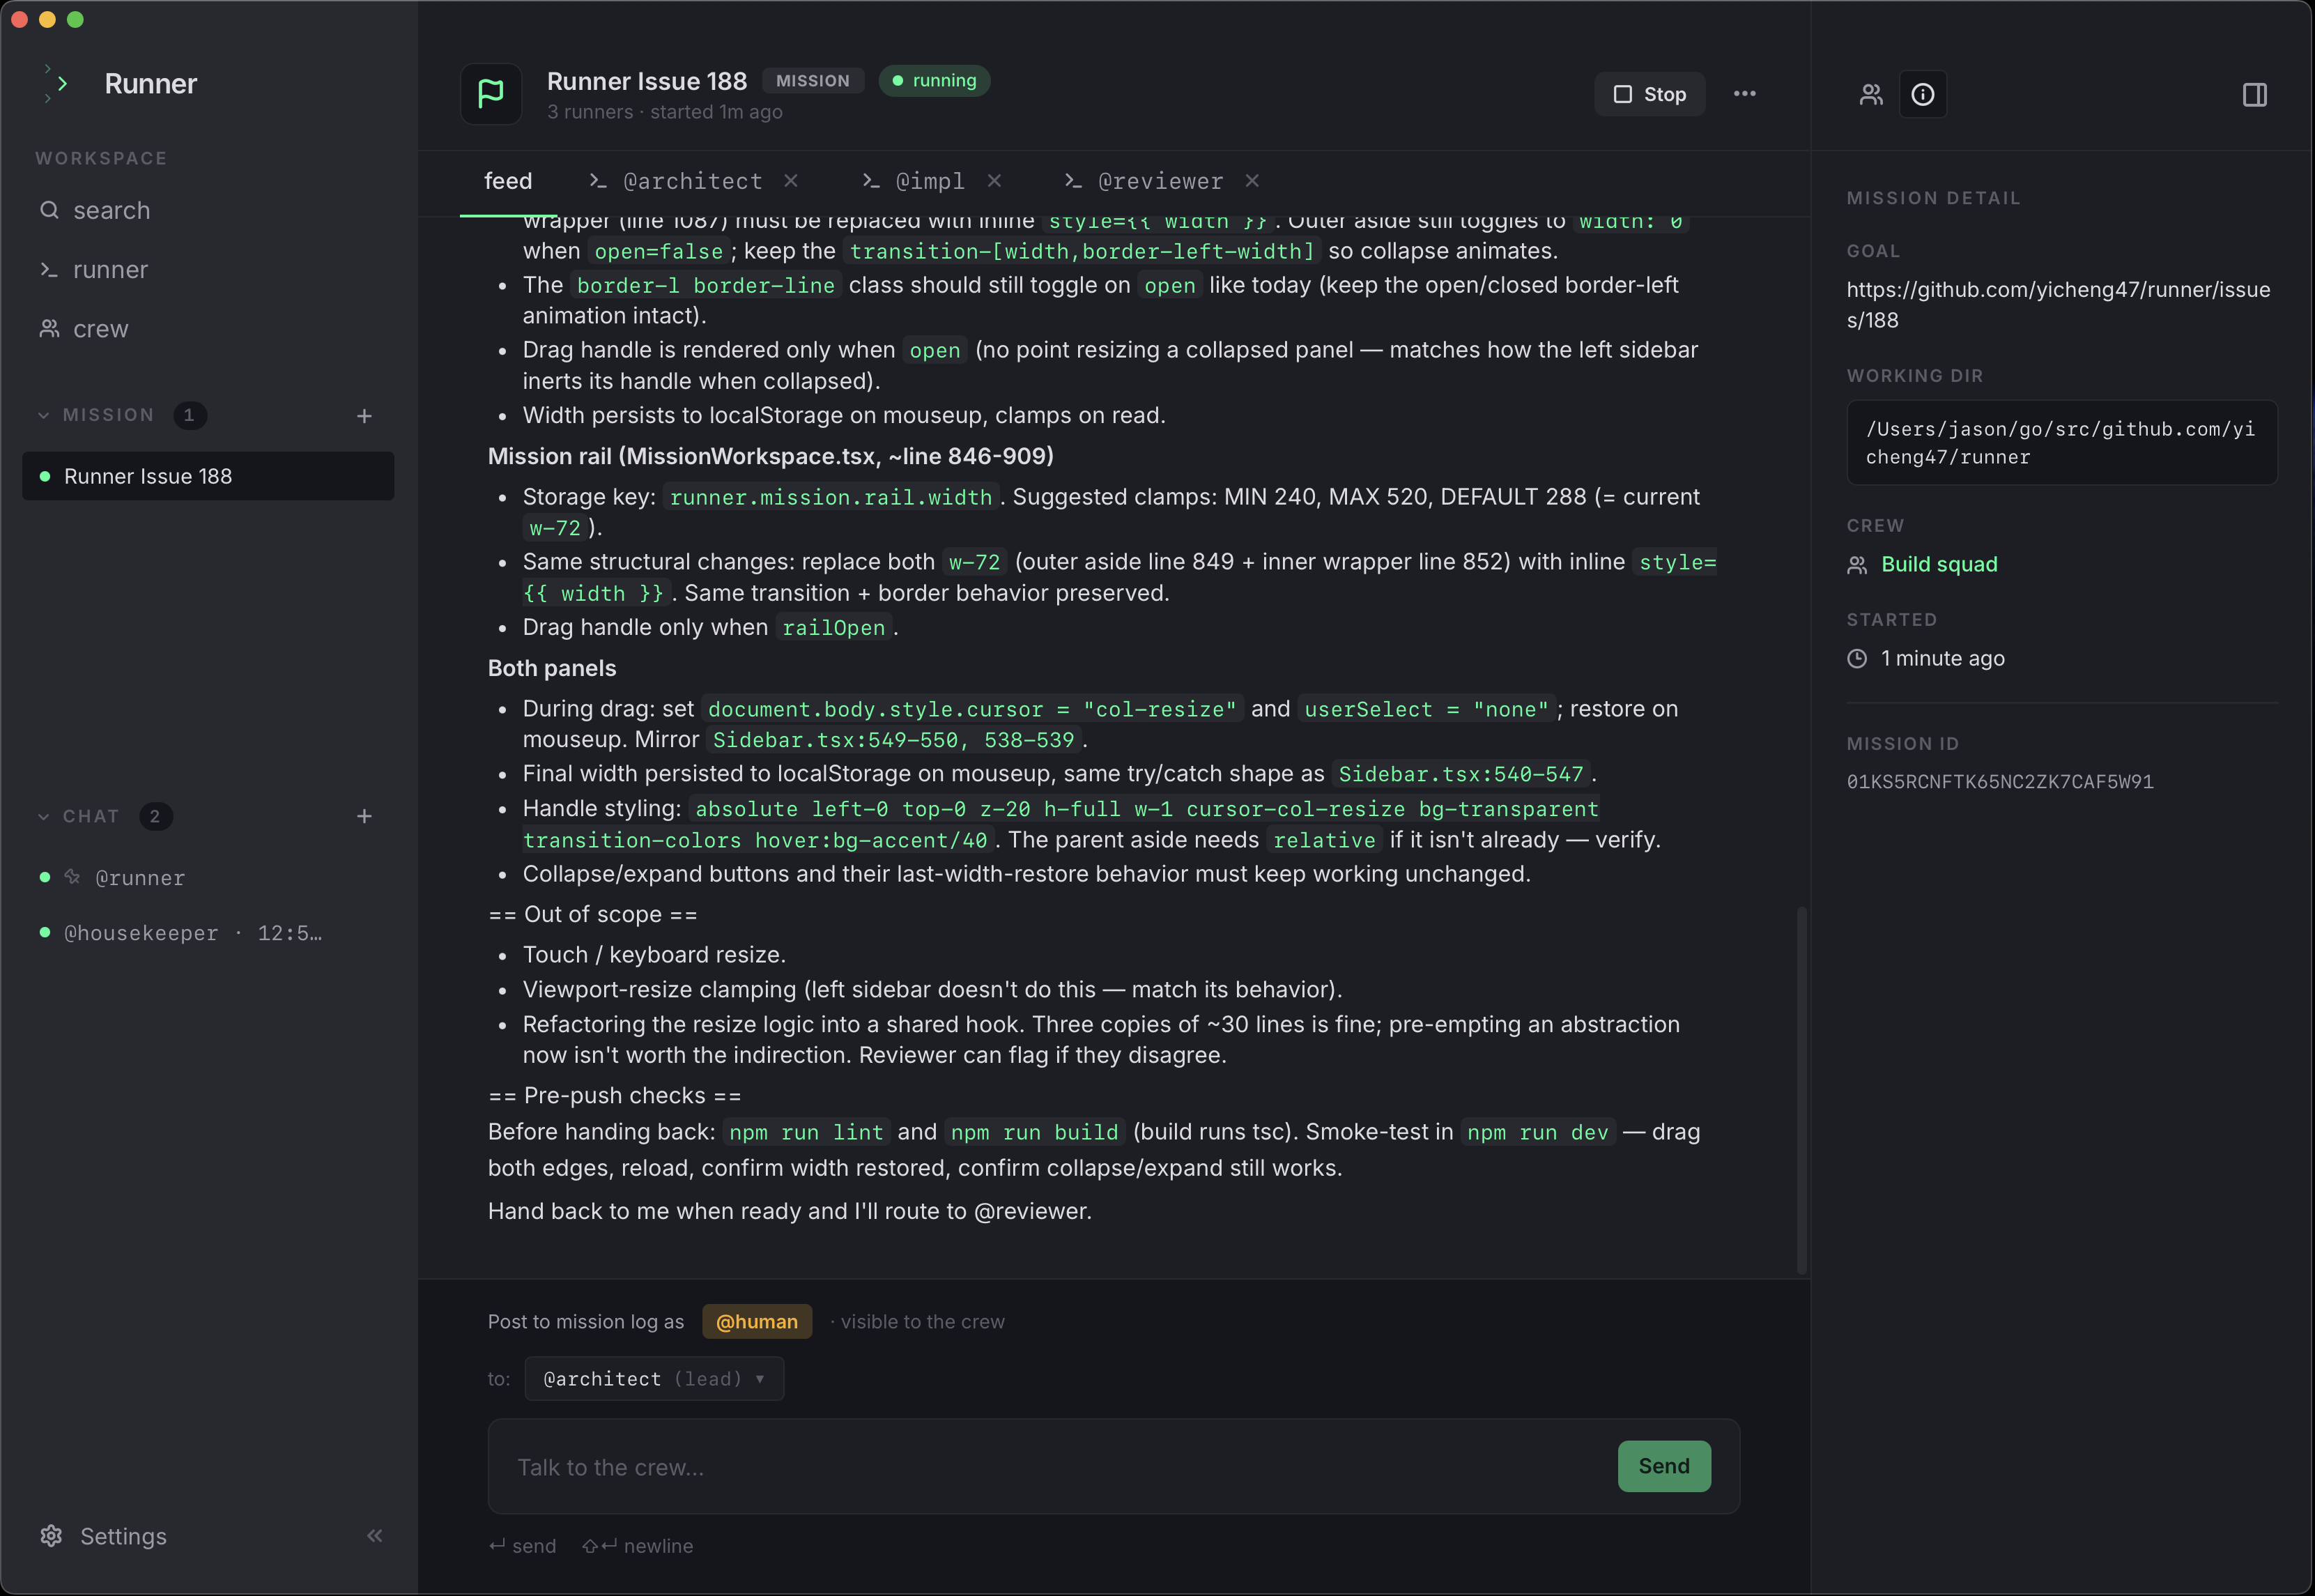
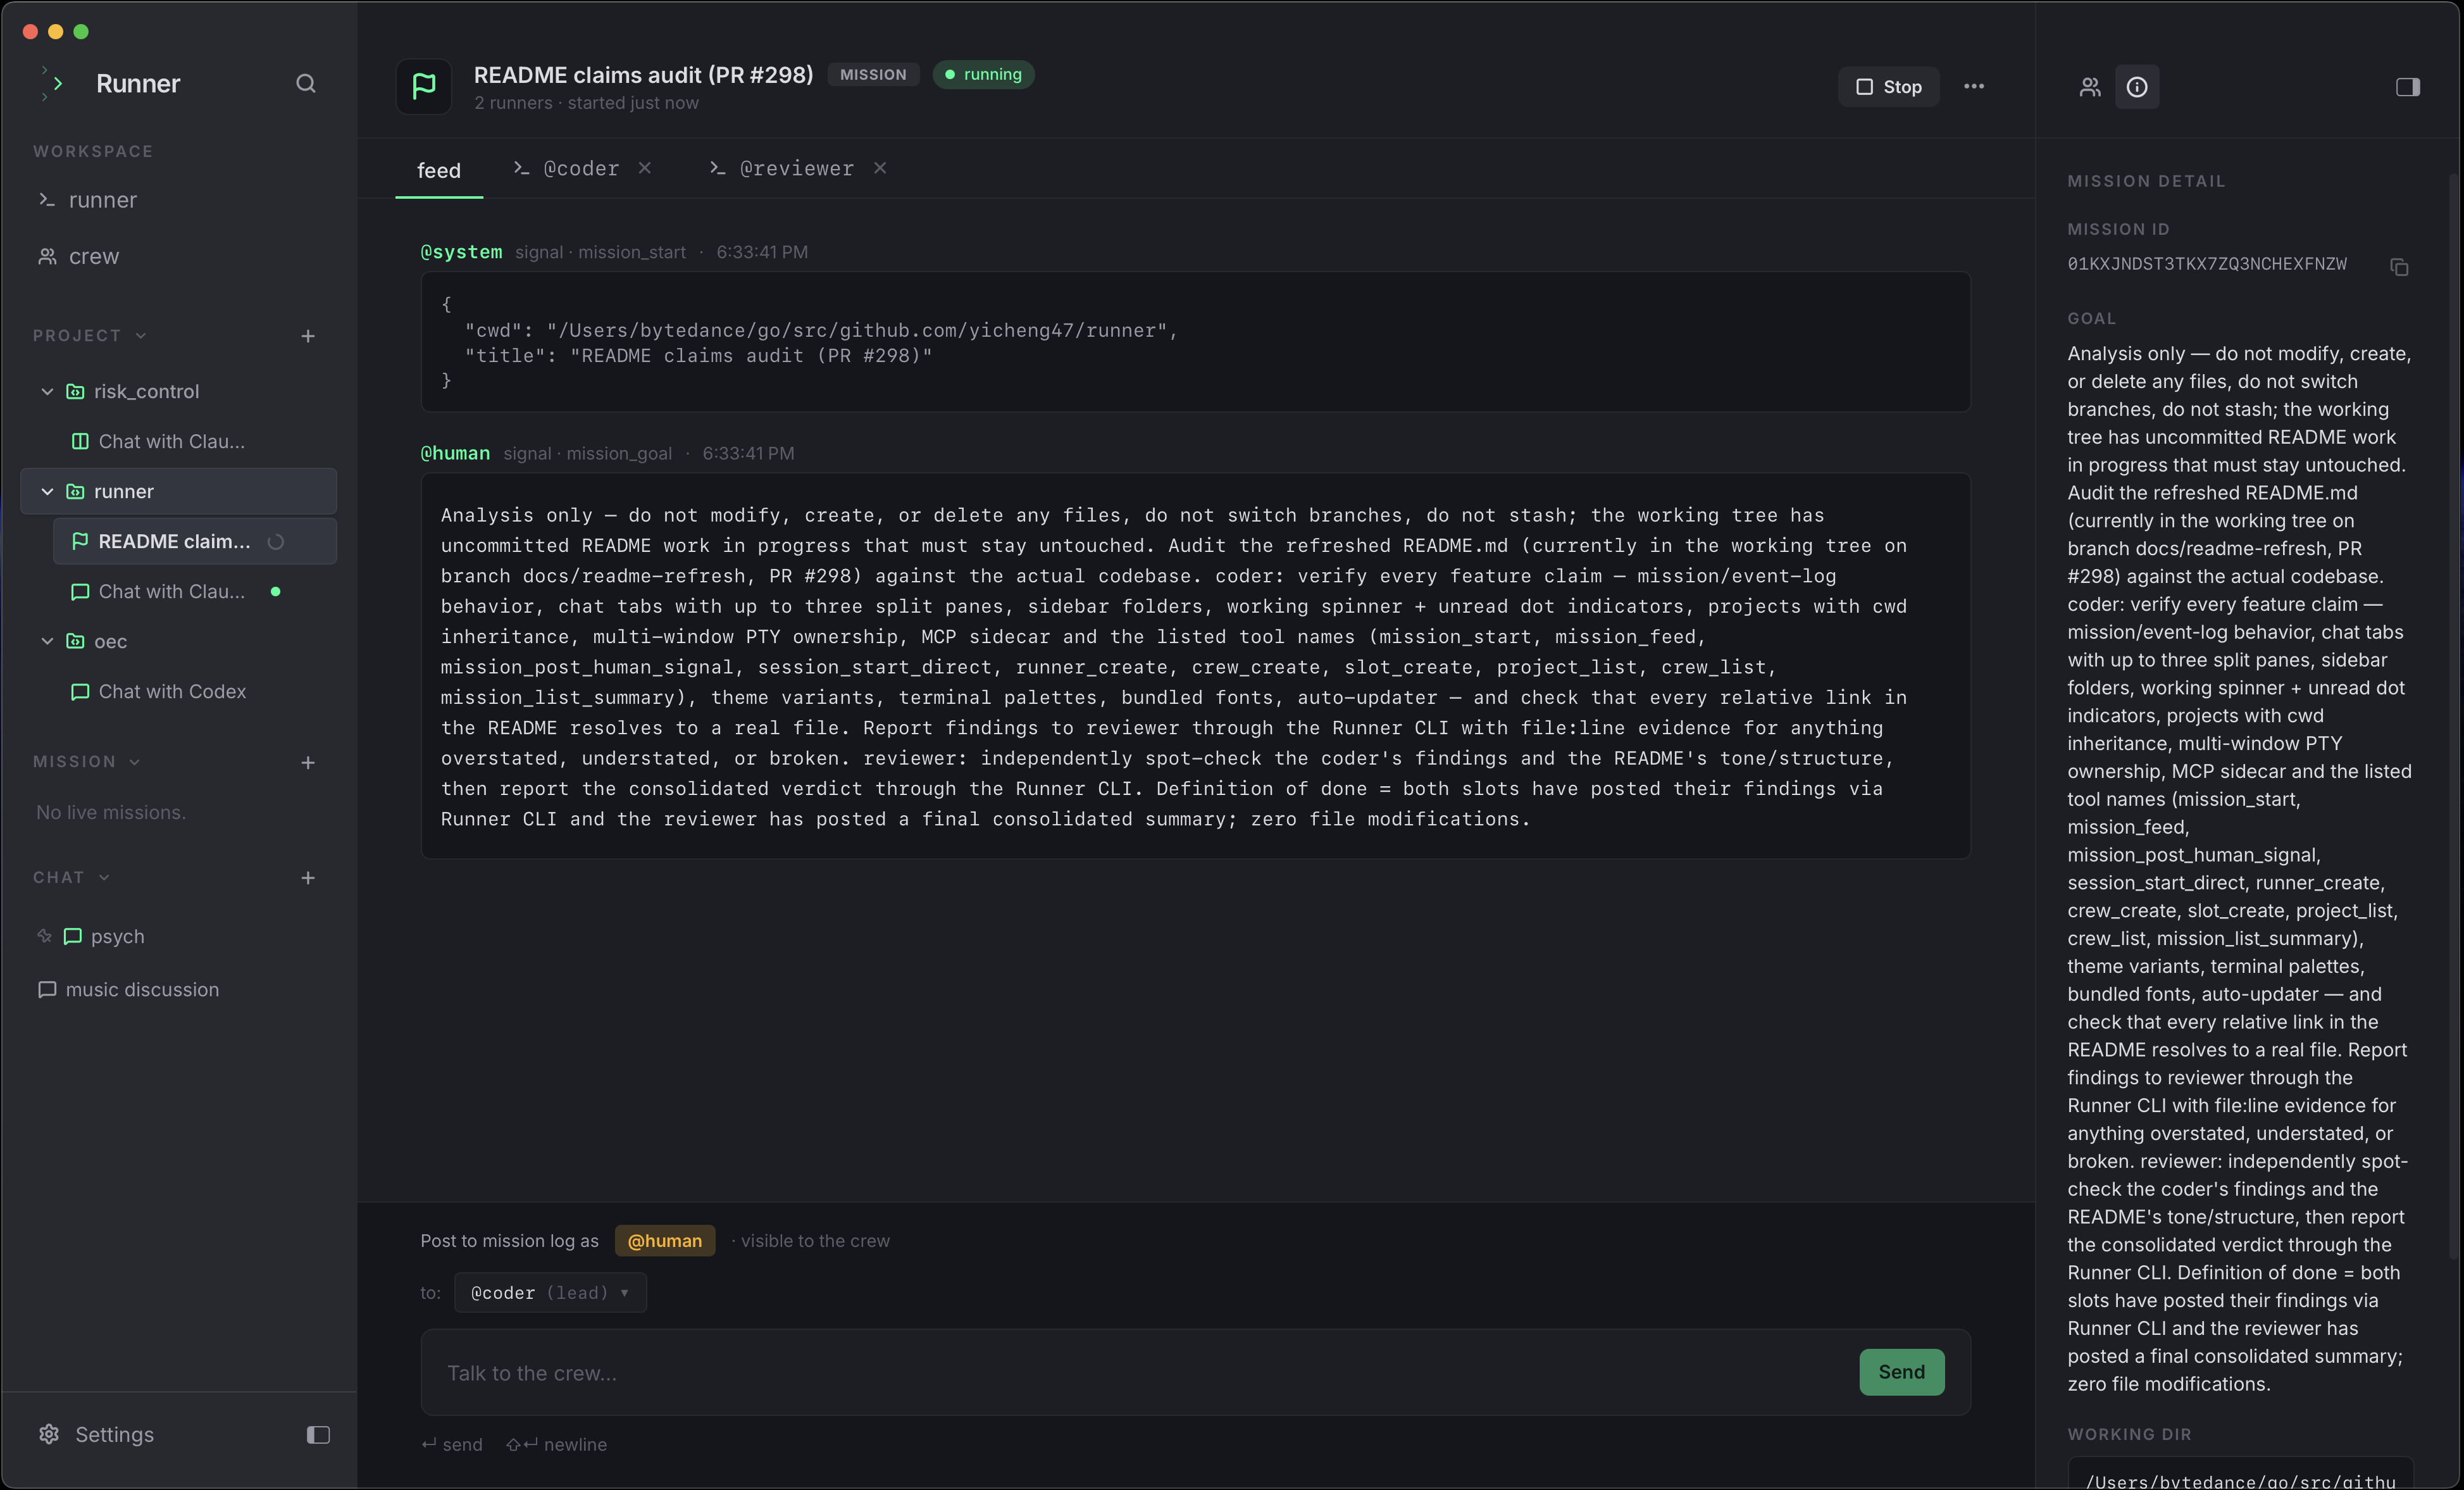
docs(readme): refresh for current product surface (#298)
* docs(readme): refresh for current product surface

Reposition as a local ADE, replace the screenshot gallery and feature
list with an Orca-style feature wall (text + image per row), add a
dedicated MCP section with the real tool surface, drop the outdated
tic-tac-toe demo video, and correct the theme/runtime claims to match
shipped code.

* docs(readme): add feature-wall screenshots and crews row

Fresh captures for all six wall rows (crews editor, mission feed,
chat split view, per-slot terminal, multi-window, MCP settings),
images moved to the left column, a dedicated Crews row split out of
Missions, MCP folded into the wall, and a more direct About voice.

Pull request: docs(readme): refresh for current product surface
## What

Full README refresh — the previous version predated most of the current product surface and its media came from the earliest demo build.

- **Positioning**: tagline and About now frame Runner as a local **agentic development environment (ADE)**, with an IDE-vs-ADE contrast paragraph.
- **Feature wall**: replaces the standalone Screenshots section and the "What it does" bullet list — one two-column row per feature (Missions, Chats with tabs/splits/folders, real terminal, Themes), text left, image right. Smaller features (Projects, multi-window, bundled `runner` CLI, auto-updates) live in a compact "Also in the box" list.
- **MCP section**: "Drive it from your agents" documents the `runner-mcp` sidecar, Settings → MCP config snippets, and the real tool surface (`mission_start`, `mission_feed`, `mission_post_human_signal`, `session_start_direct`, …).
- **Accuracy pass**: theme claims match `settings.ts` (two variants per side + independent terminal palettes), runtimes limited to what's registered (claude-code, codex, custom shells); unshipped specs (skills, resume-cwd, OpenCode) are not claimed. Status bumped pre-alpha → alpha.
- **Removed**: the outdated tic-tac-toe demo video.

## Media TODOs (follow-up)

Placeholders are commented in place, nothing renders broken:
- `assets/chat_split.png` — new hero shot (3-pane tab + organized sidebar)
- `assets/themes.png` — 2×2 theme grid
- Re-capture `mission_feed.png` / `mission_terminal.png` at current UI
[…]

diff --git a/README.md b/README.md
@@ -8,11 +8,15 @@
 <p align="center">
   Spawn a runner. Create your crew. Ship the feature.
   <br />
-  A local desktop app for orchestrating crews of CLI coding agents — Claude Code, Codex, and friends.
+  A local agentic development environment (ADE) — orchestrate crews of CLI coding agents: Claude Code, Codex, and friends.
 </p>
 
 <p align="center">
   <a href="#about">About</a>
+  ·
+  <a href="#features">Features</a>
+  ·
+  <a href="#drive-it-from-your-agents-mcp">MCP</a>
   ·
   <a href="#example-crew">Crew example</a>
   ·
@@ -25,54 +29,116 @@
 
 ---
 
-> Status: pre-alpha, actively shipping. macOS today; Linux on the way.
+> Status: alpha, actively shipping. macOS today; Linux on the way.
 
 ---
 
 ## About
 
-Runner is what happens when you stop juggling four terminal windows for four AI agents and put them in one workspace instead.
+Runner is a local desktop workspace for operating multiple CLI coding agents at once. Instead of scattering Claude Code and Codex sessions across terminal windows, you run them as an organized fleet — configured runners, composed crews, coordinated missions — from a single app.
 
-You assemble a **Crew** — a small party of CLI agents (Claude Code, Codex, custom shells). You give each runner a role, a system prompt, and a working directory. You hit **Start mission** and Runner forks a real PTY per slot into a tabbed workspace, wires them together through an append-only event bus, and lets you watch the work unfold from one window. When an agent needs you, it fires `ask_human` and the question surfaces in the feed. When you want to talk to a single agent without the orchestration scaffolding, **Direct chat** is a one-click 1:1 PTY.
+Runner is an **agentic development environment (ADE)**. Where an IDE organizes buffers and a debugger around the code you write, an ADE organizes terminals, crews, and event feeds around the agents writing it. The operator's job shifts accordingly: assign roles, start missions, monitor progress, review diffs, and make the calls agents escalate to you.
 
-The terminal is a real xterm.js + WebGL canvas — claude-code, codex, and any modern TUI render with their actual ANSI palette, mouse tracking, and live redraws. Sessions are resumable across app restarts (the event log is the source of truth). Themes are first-class: Auto / Light / Dark across four bundled palettes (Runner, Codex Light, Catppuccin Mocha, Catppuccin Latte) with a bundled font picker (Inter / Geist / Roboto / System UI) that works offline.
+The coordination model is explicit. A **runner** is a reusable agent configuration — runtime, role, system prompt, working directory. A **crew** composes runners with exactly one lead. Starting a **mission** spawns one real PTY per slot into a tabbed workspace where the crew coordinates over an append-only event log: handoffs and status flow between agents, and when a decision needs a human, `ask_human` surfaces it in the feed. Everything runs and persists locally — sessions are real processes on your machine, and the log is on-disk and replayable.
+
+Runner also runs as an **MCP server**: any MCP client — including the agents themselves — can create crews, start missions, and steer them programmatically. See [Drive it from your agents](#drive-it-from-your-agents-mcp).
 
 ## Download
 
 Latest macOS build (Apple Silicon + Intel `.dmg`) on the [releases page](https://github.com/yicheng47/runner/releases/latest). Linux builds coming with the v1 cut.
 
-## Demo
+<!-- TODO(demo): add a "## Demo" section here once the new hero video is recorded — a Peer
+     Coding Crew mission on a real repo (mission start from a project → feed + per-slot
+     terminals → coder/reviewer handoffs via the Runner CLI → ask_human surfacing → done). -->
 
-A three-runner crew shipping a tic-tac-toe game end-to-end — `@architect` decomposes the goal, `@impl` writes the code, `@reviewer` reads the diff.
-
-https://github.com/user-attachments/assets/f02e949b-117c-4d44-980a-58a9c76c49fe
-
-## Screenshots
+## Features
 
 <table>
-  <tr>
-    <td width="50%"><img src="assets/mission_feed.png" alt="Mission workspace — event feed tab" width="100%" /></td>
-    <td width="50%"><img src="assets/mission_terminal.png" alt="Mission workspace — per-slot PTY terminal tab" width="100%" /></td>
-  </tr>
-  <tr>
-    <td align="center"><em>Mission feed — every signal between the crew + human</em></td>
-    <td align="center"><em>Mission terminal — one PTY per slot, live</em></td>
-  </tr>
+<tr>
+<td width="50%">
+  <img src="assets/crew.png" alt="Crew editor — slots, prompts, team conventions, one lead" width="100%" />
+</td>
+<td width="50%" valign="middle">
+
+### Crews — roles, prompts, one lead
+
+A **runner** is a reusable agent configuration: runtime, role, system prompt, working directory. A **crew** composes runners into named slots with exactly one lead, plus team conventions and a definition of done that every mission inherits.
+
+</td>
+</tr>
+<tr>
+<td width="50%">
+  <img src="assets/mission_feed.png" alt="Mission workspace — the event feed between crew and human" width="100%" />
+</td>
+<td width="50%" valign="middle">
+
+### Missions — a crew working one goal
+
+Starting a mission spawns one live PTY per slot into a tabbed workspace where the crew coordinates over an append-only event log — every signal is persisted and replayable, so missions survive a quit or crash, and `ask_human` questions surface in the feed.
+
+[Architecture →](./docs/arch/arch.md)
+
+</td>
+</tr>
+<tr>
+<td width="50%">
+  <img src="assets/chat_split.png" alt="Chat tab with three split panes and organized sidebar" width="100%" />
+</td>
+<td width="50%" valign="middle">
+
+### Chats — tabs, split panes, folders
+
+Every chat is a real 1:1 PTY with a runner, no mission required. Tabs hold up to three side-by-side panes — run a Claude Code and a Codex on the same problem in one view. The sidebar groups tabs into collapsible folders; every tab shows a spinner while a pane is still working and a dot when one finished while you were elsewhere, so a wall of parallel agents stays scannable.
+
+</td>
+</tr>
+<tr>
+<td width="50%">
+  <img src="assets/mission_terminal.png" alt="Per-slot PTY terminal, live" width="100%" />
+</td>
+<td width="50%" valign="middle">
+
+### A real terminal
+
+xterm.js on a WebGL canvas — claude-code, codex, and any modern TUI render with their actual ANSI palette, mouse tracking, and live redraws. Sessions are resumable across app restarts; the event log is the source of truth.
+
+</td>
+</tr>
+<tr>
+<td width="50%">
+  <img src="assets/multi_window.png" alt="Two Runner windows working different chats side by side" width="100%" />
+</td>
+<td width="50%" valign="middle">
+
+### Multi-window
+
+`⌘N` opens additional OS windows — a mission on one screen, a wall of chats on the other. Windows coordinate ownership of shared sessions: the primary owns the PTY, and any other window showing the same session gets a hand-off overlay instead of a corrupted terminal.
+
+</td>
+</tr>
+<tr>
+<td width="50%">
+  <img src="assets/mcp_settings.png" alt="Settings → MCP — one-click config for Claude Code and Codex" width="100%" />
+</td>
+<td width="50%" valign="middle">
+
+### Drive it from your agents (MCP)
+
+Everything above is also an MCP tool. Runner bundles a `runner-mcp` stdio sidecar, and **Settings → MCP** registers it with Claude Code or Codex in one click. Connected agents assemble crews, start and steer missions (`mission_start`, `mission_feed`, `mission_post_human_signal`), and spin up chats (`session_start_direct`). The compounding trick: your daily driver agent plans a fix, dispatches a coder/reviewer crew, and keeps working — agents dispatching crews of agents, every session still a real PTY you can open and watch.
+
+</td>
+</tr>
 </table>
 
-## What it does
+### Also in the box
 
-- **Crews** — group runners with exactly one lead.
-- **Runners** — each runner is a local CLI runtime (claude, codex, …) with its own role, system prompt, and working directory.
-- **Missions** — spawn one PTY session per slot into a tabbed workspace where the crew works toward a shared goal.
-- **Direct chats** — quick 1:1 PTY with a single runner, no mission required.
-- **Event feed** — every signal between agents and the human, persisted to disk and replayable so missions resume cleanly after a quit or crash.
-
-For the wire-level architecture (event bus, signal router, runtime contracts) see [`docs/`](./docs/) — start with [`docs/arch/arch.md`](./docs/arch/arch.md).
+- **Projects** — bind a working directory once; chats and missions started inside a project inherit its cwd and stay grouped in their own sidebar section.
+- **Themes** — Auto / Light / Dark chrome with two variants per side (Runner and Catppuccin Mocha dark; Codex Light and Catppuccin Latte light), independent terminal palettes, and a bundled offline font picker.
+- **Bundled `runner` CLI** — spawned agents message each other, check the crew roster, and post signals from inside their own PTYs.
 
 ## Example crew
 
-The crew in the demo above is the **default Runner shape** — a three-runner engineering party where one decomposes, one builds, one audits. Lives in [`examples/dev-crew/`](./examples/dev-crew/) — drop the system prompts into a new Crew, hand it a goal, and the three tabs work the problem in one window.
+The **default Runner shape** — a three-runner engineering party where one decomposes, one builds, one audits. Lives in [`examples/dev-crew/`](./examples/dev-crew/) — drop the system prompts into a new Crew, hand it a goal, and the three tabs work the problem in one window.
 
 | Runner | Runtime | Role | System prompt |
 | --- | --- | --- | --- |